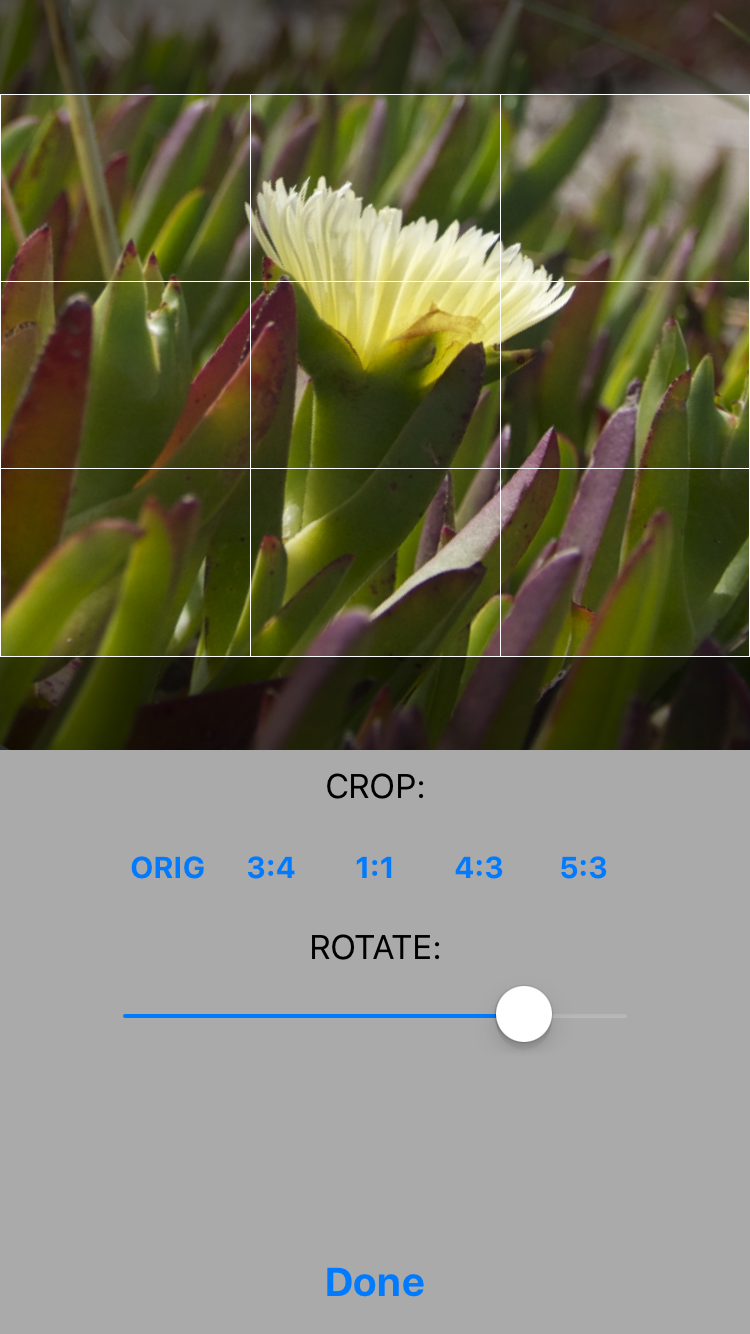
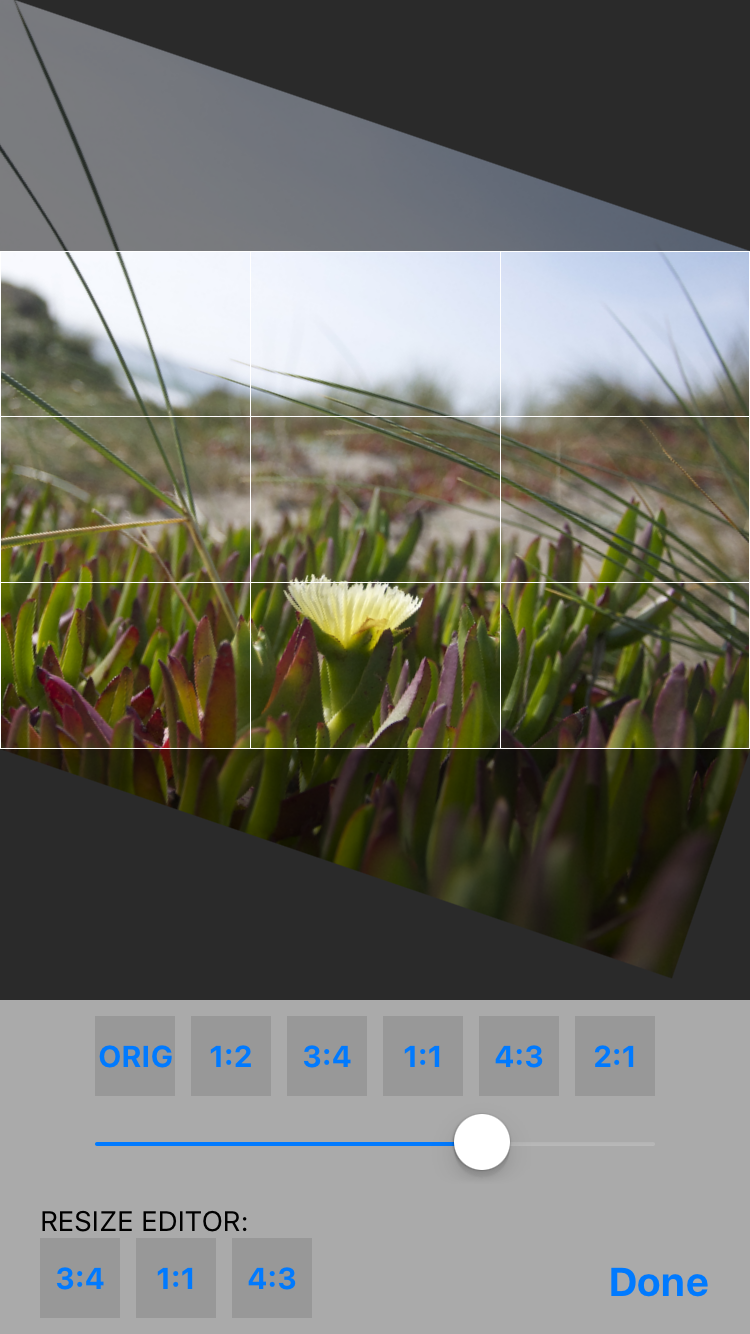
Fixed a few bugs, added ability to resize ABCropRotateView

diff --git a/Pod/Classes/ABCropRotateView.m b/Pod/Classes/ABCropRotateView.m
@@ -44,7 +44,7 @@
     }];
     dispatch_async(dispatch_get_main_queue(), ^{
         [UIView performWithoutAnimation:^{
-            [self updateScrollViewSettings];
+            //[self updateScrollViewSettings];
         }];
     });
 }
@@ -108,6 +108,7 @@
     self.scrollView.layer.rasterizationScale = [UIScreen mainScreen].scale;
     self.scrollView.layer.shouldRasterize = YES;
     self.scrollView.scrollEnabled = YES;
+    self.scrollView.clipsToBounds = NO;
     self.scrollView.bouncesZoom = YES;
     self.scrollView.bounces = YES;
     self.scrollView.showsHorizontalScrollIndicator = NO;
@@ -126,6 +127,23 @@
 
 - (void)dealloc {
     self.scrollView.delegate = nil;
+}
+
+- (void)layoutSubviews {
+    [self letsLayout];
+}
+
+- (void)layoutIfNeeded {
+    [self letsLayout];
+}
+
+- (void)letsLayout {
+    CGAffineTransform tr = self.scrollView.transform;
+    self.scrollView.transform = CGAffineTransformIdentity;
+    self.scrollView.frame = self.bounds; // Access frame when transform is identity
+    self.scrollView.transform = tr;
+    
+    [self updateScrollViewSettings];
 }
 
 #pragma mark - Calculations
@@ -168,8 +186,7 @@
     return t;
 }
 
-- (UIImage *)createResultImage
-{
+- (UIImage *)createResultImage {
     /*
     if (self.cropGridView.x == self.imageView.image.size.width &&
         self.cropGridView.y == self.imageView.image.size.height &&
@@ -212,8 +229,7 @@
     return [self crop:self.imageView.image rect:rect angle:self.angle scale:self.angleScale];
 }
 
-- (UIImage*)crop:(UIImage *)image rect:(CGRect)rect angle:(CGFloat)angle scale:(CGFloat)angleScale
-{
+- (UIImage*)crop:(UIImage *)image rect:(CGRect)rect angle:(CGFloat)angle scale:(CGFloat)angleScale {
     UIGraphicsBeginImageContextWithOptions(rect.size, NO, image.scale);
     CGContextRef context = UIGraphicsGetCurrentContext();
     CGContextTranslateCTM(context, CGRectGetWidth(rect)/2, CGRectGetHeight(rect)/2);
@@ -228,8 +244,7 @@
 
 #pragma mark - Scroll View
 
-- (void)updateScrollViewSettings
-{
+- (void)updateScrollViewSettings {
     if (self.cropGridView.x == 0 || self.cropGridView.y == 0)
         return;
     
@@ -249,7 +264,7 @@
         h = height;
         w = h/yy*xx;
     }
-    CGFloat zoomScale = self.scrollView.bounds.size.width/MAX(w,h);
+    CGFloat zoomScale = MIN(self.scrollView.bounds.size.width/w, self.scrollView.bounds.size.height/h);
     CGFloat dx = MAX(0,self.scrollView.bounds.size.width/2-w/2*zoomScale+self.deltaX*zoomScale);
     CGFloat dy = MAX(0,self.scrollView.bounds.size.height/2-h/2*zoomScale+self.deltaY*zoomScale);
     
@@ -258,18 +273,17 @@
         self.scrollView.contentInset = UIEdgeInsetsMake(dy,dx,dy,dx);
         self.scrollView.minimumZoomScale = MIN(zoomScale,1.0);
         self.scrollView.maximumZoomScale = MAX(zoomScale,1.0);
-        self.scrollView.zoomScale = MIN(self.scrollView.maximumZoomScale,MAX(self.scrollView.minimumZoomScale,self.scrollView.zoomScale));
+        self.scrollView.zoomScale = self.cropGridView.hidden ? self.scrollView.minimumZoomScale : MIN(self.scrollView.maximumZoomScale,MAX(self.scrollView.minimumZoomScale,self.scrollView.zoomScale));
     } completion:^(BOOL finished) {
         self.scrollView.userInteractionEnabled = !self.cropGridView.hidden;
     }];
     
     self.scrollView.transform = CGAffineTransformScale(CGAffineTransformMakeRotation(angle),angleScale,angleScale);
-    self.cropGridView.hidden = (ABS(angle)*180/M_PI < 0.3 && self.cropGridView.x == self.imageView.image.size.width && self.cropGridView.y == self.imageView.image.size.height);
+    self.cropGridView.hidden = (ABS(angle)*180/M_PI < 0.3 && ABS(self.cropGridView.x*1.0/self.cropGridView.y - self.imageView.image.size.width*1.0/self.imageView.image.size.height) < FLT_EPSILON);
     self.scrollView.userInteractionEnabled = !self.cropGridView.hidden;
 }
 
-- (UIView *)viewForZoomingInScrollView:(UIScrollView *)scrollView
-{
+- (UIView *)viewForZoomingInScrollView:(UIScrollView *)scrollView {
     return self.imageView;
 }
 

diff --git a/Example/ABCropRotateView/EditorViewController.m b/Example/ABCropRotateView/EditorViewController.m
@@ -10,7 +10,8 @@
 
 @interface EditorViewController ()
 
-@property (strong, nonatomic) IBOutlet ABCropRotateView *cropRotateView;
+@property (weak, nonatomic) IBOutlet ABCropRotateView *cropRotateView;
+@property (weak, nonatomic) IBOutlet NSLayoutConstraint *cropRotateViewRatio;
 
 @end
 
@@ -24,7 +25,7 @@
 
 - (IBAction)changeRatio:(UIButton *)sender {
     NSArray<NSString *> *xy = [sender.currentTitle componentsSeparatedByString:@":"];
-    [self.cropRotateView setCropRatioX:[xy[0] integerValue] ratioY:[xy[1] integerValue]];
+    [self.cropRotateView setCropRatioX:xy[0].integerValue ratioY:xy[1].integerValue];
 }
 
 - (IBAction)angleChanged:(UISlider *)sender {
@@ -33,6 +34,24 @@
 
 - (IBAction)doneTapped:(id)sender {
     [self.delegate editorController:self didEditPhoto:self.cropRotateView.resultImage];
+}
+
+- (IBAction)resizeTapped:(UIButton *)sender {
+    NSArray<NSString *> *xy = [sender.currentTitle componentsSeparatedByString:@":"];
+    [UIView animateWithDuration:0.3 animations:^{
+        NSLayoutConstraint *ratioConstraint =
+            [NSLayoutConstraint constraintWithItem:self.cropRotateViewRatio.firstItem
+                                         attribute:self.cropRotateViewRatio.firstAttribute
+                                         relatedBy:self.cropRotateViewRatio.relation
+                                            toItem:self.cropRotateViewRatio.secondItem
+                                         attribute:self.cropRotateViewRatio.secondAttribute
+                                        multiplier:xy[0].doubleValue/xy[1].doubleValue
+                                          constant:self.cropRotateViewRatio.constant];
+        [self.cropRotateView removeConstraint:self.cropRotateViewRatio];
+        [self.cropRotateView addConstraint:ratioConstraint];
+        self.cropRotateViewRatio = ratioConstraint;
+        [self.view layoutIfNeeded];
+    }];
 }
 
 #pragma mark - View

diff --git a/Pod/Classes/ABGridView.m b/Pod/Classes/ABGridView.m
@@ -12,6 +12,7 @@
 - (instancetype)initWithFrame:(CGRect)frame {
     if (self = [super initWithFrame:frame]) {
         self.backgroundColor = [UIColor clearColor];
+        self.contentMode = UIViewContentModeRedraw;
     }
     return self;
 }
@@ -42,8 +43,9 @@ CGFloat roundScale(CGFloat value) {
     
     CGFloat width = self.bounds.size.width;
     CGFloat height = self.bounds.size.height;
-    CGFloat w = roundScale(width*self.x/MAX(self.x,self.y));
-    CGFloat h = roundScale(height*self.y/MAX(self.x,self.y));
+    CGFloat wh = (width/self.x < height/self.y) ? width : height;
+    CGFloat w = roundScale(wh*self.x/MAX(self.x,self.y));
+    CGFloat h = roundScale(wh*self.y/MAX(self.x,self.y));
     CGFloat dx = roundScale(MAX(0,width/2-w/2));
     CGFloat dy = roundScale(MAX(0,height/2-h/2));
     
@@ -60,7 +62,7 @@ CGFloat roundScale(CGFloat value) {
     CGFloat scale = [UIScreen mainScreen].scale;
     CGContextSetLineWidth(context, 1/scale);
     CGContextAddRect(context, CGRectMake(dx, dy+1/scale, w-1/scale, h-1/scale));
-    NSInteger linesCount = 3;
+    NSInteger const linesCount = 3;
     for (NSInteger i = 1; i < linesCount; i++) {
         CGContextMoveToPoint(context, dx, dy+roundScale(h*i/linesCount));
         CGContextAddLineToPoint(context, w+dx-1/scale, dy+roundScale(h*i/linesCount));

diff --git a/README.md b/README.md
@@ -1,6 +1,6 @@
 # ABCropRotateView
 
-[![CI Status](http://img.shields.io/travis/k06a/ABCropRotateView.svg?style=flat)](https://travis-ci.org/Anton Bukov/ABCropRotateView)
+[![CI Status](http://img.shields.io/travis/k06a/ABCropRotateView.svg?style=flat)](https://travis-ci.org/k06a/ABCropRotateView)
 [![Version](https://img.shields.io/cocoapods/v/ABCropRotateView.svg?style=flat)](http://cocoapods.org/pods/ABCropRotateView)
 [![License](https://img.shields.io/cocoapods/l/ABCropRotateView.svg?style=flat)](http://cocoapods.org/pods/ABCropRotateView)
 [![Platform](https://img.shields.io/cocoapods/p/ABCropRotateView.svg?style=flat)](http://cocoapods.org/pods/ABCropRotateView)
